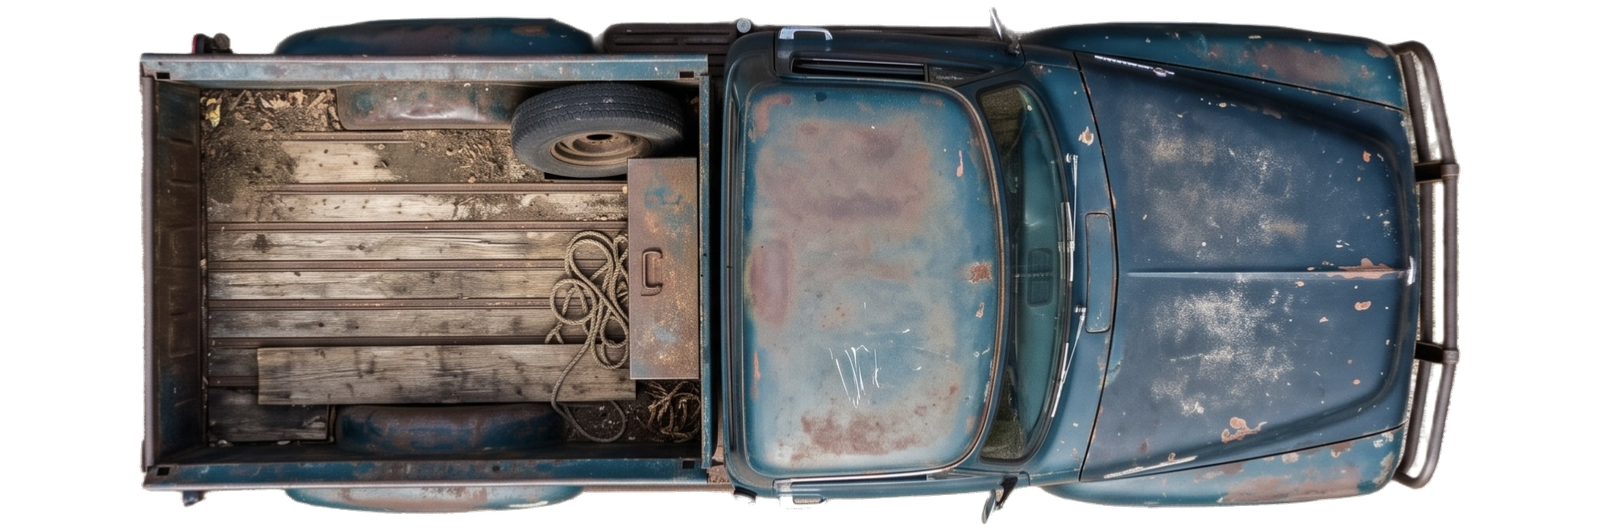
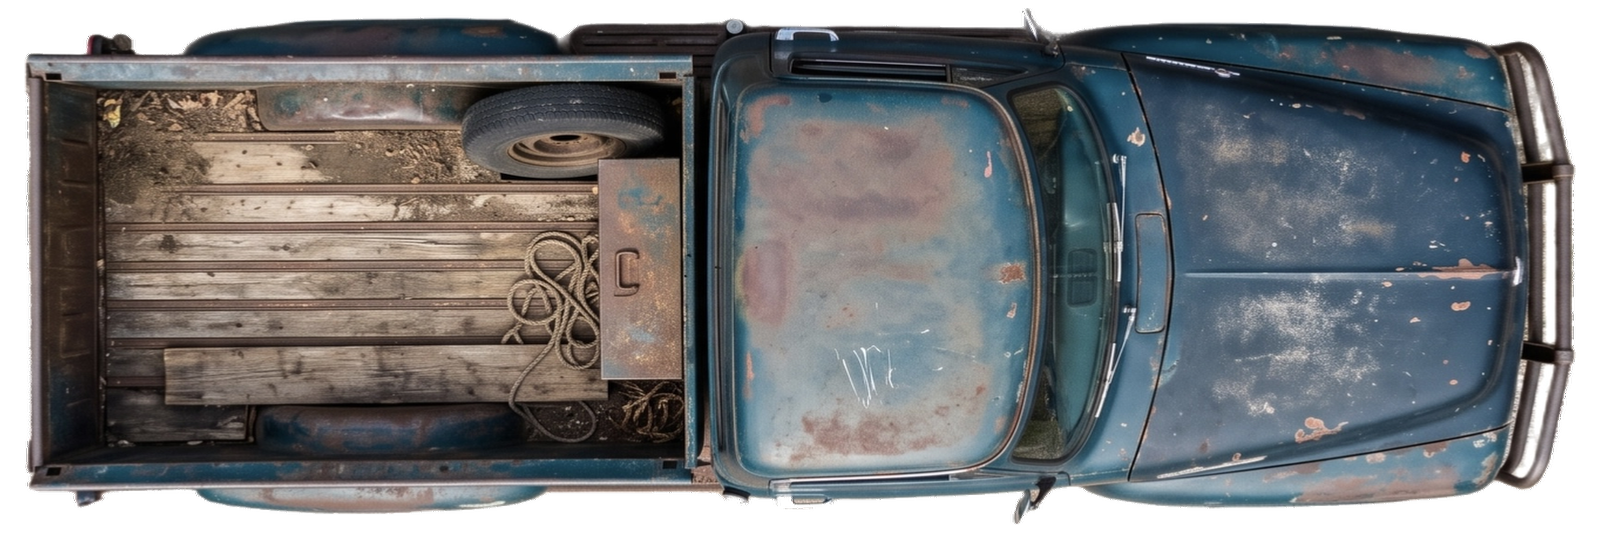
Fix colour repeats within a level; stretch the 3 new truck photos to fill their cell
Colour collisions (root cause): the traffic photo picker walked SEDAN_PHOTOS/
TRUCK_PHOTOS in a fixed cyclic order, offset per level by a seed — that only
rotates a SHARED order, so it can't stop two same-coloured entries landing in
one level's window once that level needs more traffic than the gap between
them. Campaign levels go up to 14 concurrent sedans and 6 concurrent trucks
(measured across all 200 levels, not the ~4-8 assumed by the previous fix),
which is well past what any fixed rotation can guarantee against a 5-6-member
colour group in a 40-entry array — the "level 1 shows two reds, two whites,
two yellows" bug was mathematically inevitable, not a spacing mistake.

Replaced the mechanism: every SEDAN_PHOTOS/TRUCK_PHOTOS entry now carries a
`color` bucket tag (measured from the art — base hue plus any distinguishing
stripe/livery, so a plain white hatchback and a green-striped white 911 get
different tags). bucketSequence() in js/art.js visits every colour bucket
ONCE, in a seed-shuffled order, before repeating any bucket — round-robin
across colours instead of across raw array slots. With 36 sedan buckets and
8 truck buckets, both above the measured per-level maximums, every level's
picks come from round 0 only, so no level can show the same colour twice.
Different seeds shuffle both the bucket visit order and which member of each
bucket comes first, so distinct levels don't all reach for the same "first"
[…]

diff --git a/js/art.js b/js/art.js
@@ -51,14 +51,15 @@ const CLASSIC_CAR_IMG = 'assets/cars/classic.png';
    was shifting each photo's own baked taillight red along with the body
    paint, which read as a lighting bug (green/purple taillights) rather than
    "recolored car". Real photos any time they exist beats simulating them. */
-/* ORDER MATTERS for colour variety, not just membership: a level's sedans
-   are consecutive entries starting at a seeded offset (see levelPhotoSeed
-   in js/game.js), so the cars that appear TOGETHER on one board are always
-   a contiguous window of this array. Entries are therefore arranged so that
-   any two cars of the same colour family sit ≥8 apart (circularly) — with
-   ~4-8 sedans per level, no board shows the same colour twice. Measured
-   from the art (dominant paint hue), not from the names. If you add a car,
-   place it away from its colour-mates rather than appending blindly.
+/* Every entry carries a `color` bucket tag (measured from the art: base
+   paint hue plus any distinguishing stripe/livery, not just the name) —
+   this is what actually prevents two same-looking cars sharing a level, via
+   bucketSequence()'s seeded round-robin below. A level's traffic no longer
+   walks this array's raw order at all: array order here is just for human
+   readability (roughly grouped by family). Only merge two cars into the
+   same bucket when they'd genuinely read as "the same car" at a glance
+   (e.g. the two plain red exotics); a stripe, livery, or shape that changes
+   the read gets its own bucket even at the same base hue.
 
    NOTE: sedan-6's cutout shipped mirrored (front at the LEFT — the only
    one violating the normalization described above) and was flipped in
@@ -77,65 +78,65 @@ const CLASSIC_CAR_IMG = 'assets/cars/classic.png';
    The olive G-wagon (sedan-9) stays dropped: too stubby (~1.7:1) for the
    shared 97%-of-length norm. Same call as the shadowed Countach cutout. */
 const SEDAN_PHOTOS = [
-  { img: 'assets/cars/traffic-sedan-6.png', hue: 29 },                 // recolors · skin body
-  { img: 'assets/cars/traffic-sedan-13.png', fixed: true },            // white hatchback
-  { img: 'assets/cars/traffic-sedan-5.png', fixed: true },             // yellow Ferrari, tricolor stripe
-  { img: 'assets/cars/hero-mclaren-nobadge.png', fixed: true },        // amber-orange F1
-  { img: 'assets/cars/hero-sports-cyan.png', fixed: true },            // cyan track 911
-  { img: 'assets/cars/traffic-sedan-new-lightblue.png', fixed: true }, // light-blue racer
-  { img: 'assets/cars/traffic-sedan-4.png', fixed: true },             // silver + yellow stripe GT
-  { img: 'assets/cars/hero-ferrari-nobadge.png', fixed: true },        // red prancing exotic
-  { img: 'assets/cars/traffic-sedan-25.png', fixed: true },            // police K-9 unit
-  { img: 'assets/cars/hero-classic-white-green.png', fixed: true },    // white 911, green stripe
-  { img: 'assets/cars/hero-sedan-green.png', fixed: true },            // dark green sedan
-  { img: 'assets/cars/hero-convertible-brown.png', fixed: true },      // brown grand tourer
-  { img: 'assets/cars/traffic-sedan-24.png', fixed: true },            // yellow taxi
-  { img: 'assets/cars/traffic-sedan-11.png', fixed: true },            // Gulf-blue GT40 (numbered race car)
-  { img: 'assets/cars/hero-ferrari-red-stripe.png', fixed: true },     // carbon/silver, red stripe
-  { img: 'assets/cars/hero-fluro-cyan.png', fixed: true },             // fluro cyan muscle
-  { img: 'assets/cars/hero-jeep-rubicon-nobadge.png', fixed: true },   // orange 4x4
-  { img: 'assets/cars/hero-vintage-white.png', fixed: true },          // white vintage bug
-  { img: 'assets/cars/traffic-sedan-3.png', hue: 212 },                // recolors · navy classic GT
-  { img: 'assets/cars/traffic-sedan-12.png', fixed: true },            // silver 300SL
-  { img: 'assets/cars/hero-fluro-green.png', fixed: true },            // fluro green muscle
-  { img: 'assets/cars/hero-cobra-nobadge.png', fixed: true },          // blue roadster
-  { img: 'assets/cars/hero-porsche-nobadge.png', fixed: true },        // pale-yellow 911
-  { img: 'assets/cars/hero-red-exotic.png', fixed: true },             // red exotic
-  { img: 'assets/cars/hero-fluro-pink.png', fixed: true },             // fluro pink muscle
-  { img: 'assets/cars/hero-classic-cream.png', fixed: true },          // cream coupe
-  { img: 'assets/cars/hero-muscle.png', fixed: true },                 // grey muscle
-  { img: 'assets/cars/traffic-sedan-28.png', fixed: true },            // rusted/weathered hatchback
-  { img: 'assets/cars/hero-pagani-nobadge.png', fixed: true },         // teal hypercar
-  { img: 'assets/cars/hero-miura-nobadge.png', fixed: true },          // blue classic exotic
-  { img: 'assets/cars/hero-muscle-sage.png', fixed: true },            // sage muscle
-  { img: 'assets/cars/hero-fluro-orange.png', fixed: true },           // fluro orange muscle
-  { img: 'assets/cars/hero-fluro-yellow.png', fixed: true },           // fluro yellow muscle
-  { img: 'assets/cars/traffic-sedan-7.png', fixed: true },             // white classic 911, black stripe
-  { img: 'assets/cars/hero-porsche-911-silver.png', fixed: true },     // silver longtail
-  { img: 'assets/cars/hero-sedan-bronze.png', fixed: true },           // bronze sedan
-  { img: 'assets/cars/traffic-sedan-8.png', hue: 90 },                 // recolors · lime GT3 RS
-  { img: 'assets/cars/hero-classic-blue-stripe.png', fixed: true },    // steel-blue coupe, white stripe
-  { img: 'assets/cars/hero-muscle-grey-stripe.png', fixed: true },     // grey-stripe muscle
-  { img: 'assets/cars/hero-countach-nobadge.png', fixed: true },       // green wedge
+  { img: 'assets/cars/traffic-sedan-6.png', hue: 29, color: 'recolor' },              // skin body, recolors
+  { img: 'assets/cars/traffic-sedan-13.png', fixed: true, color: 'white-plain' },
+  { img: 'assets/cars/traffic-sedan-5.png', fixed: true, color: 'yellow-tricolor' },  // Ferrari, tricolor stripe
+  { img: 'assets/cars/hero-mclaren-nobadge.png', fixed: true, color: 'orange-f1' },
+  { img: 'assets/cars/hero-sports-cyan.png', fixed: true, color: 'cyan-track' },
+  { img: 'assets/cars/traffic-sedan-new-lightblue.png', fixed: true, color: 'blue-plain' },
+  { img: 'assets/cars/traffic-sedan-4.png', fixed: true, color: 'silver-yellow-stripe' },
+  { img: 'assets/cars/hero-ferrari-nobadge.png', fixed: true, color: 'red' },
+  { img: 'assets/cars/traffic-sedan-25.png', fixed: true, color: 'police' },          // K-9 unit
+  { img: 'assets/cars/hero-classic-white-green.png', fixed: true, color: 'white-green-stripe' },
+  { img: 'assets/cars/hero-sedan-green.png', fixed: true, color: 'green-sedan' },
+  { img: 'assets/cars/hero-convertible-brown.png', fixed: true, color: 'brown' },
+  { img: 'assets/cars/traffic-sedan-24.png', fixed: true, color: 'yellow-taxi' },
+  { img: 'assets/cars/traffic-sedan-11.png', fixed: true, color: 'blue-gulf-race' },  // numbered Gulf GT40
+  { img: 'assets/cars/hero-ferrari-red-stripe.png', fixed: true, color: 'carbon-red-stripe' },
+  { img: 'assets/cars/hero-fluro-cyan.png', fixed: true, color: 'cyan-fluro' },
+  { img: 'assets/cars/hero-jeep-rubicon-nobadge.png', fixed: true, color: 'orange-suv' },
+  { img: 'assets/cars/hero-vintage-white.png', fixed: true, color: 'ivory-bug' },
+  { img: 'assets/cars/traffic-sedan-3.png', hue: 212, color: 'recolor' },             // navy classic GT
+  { img: 'assets/cars/traffic-sedan-12.png', fixed: true, color: 'silver-plain' },    // 300SL
+  { img: 'assets/cars/hero-fluro-green.png', fixed: true, color: 'green-fluro' },
+  { img: 'assets/cars/hero-cobra-nobadge.png', fixed: true, color: 'blue-white-stripe' },
+  { img: 'assets/cars/hero-porsche-nobadge.png', fixed: true, color: 'yellow-911-pale' },
+  { img: 'assets/cars/hero-red-exotic.png', fixed: true, color: 'red' },
+  { img: 'assets/cars/hero-fluro-pink.png', fixed: true, color: 'pink-fluro' },
+  { img: 'assets/cars/hero-classic-cream.png', fixed: true, color: 'cream-coupe' },
+  { img: 'assets/cars/hero-muscle.png', fixed: true, color: 'grey-muscle' },
+  { img: 'assets/cars/traffic-sedan-28.png', fixed: true, color: 'rust-weathered' },
+  { img: 'assets/cars/hero-pagani-nobadge.png', fixed: true, color: 'teal' },
+  { img: 'assets/cars/hero-miura-nobadge.png', fixed: true, color: 'blue-classic' },
+  { img: 'assets/cars/hero-muscle-sage.png', fixed: true, color: 'green-sage' },
+  { img: 'assets/cars/hero-fluro-orange.png', fixed: true, color: 'orange-fluro' },
+  { img: 'assets/cars/hero-fluro-yellow.png', fixed: true, color: 'yellow-fluro' },
+  { img: 'assets/cars/traffic-sedan-7.png', fixed: true, color: 'white-black-stripe' }, // 911
+  { img: 'assets/cars/hero-porsche-911-silver.png', fixed: true, color: 'silver-track' }, // longtail
+  { img: 'assets/cars/hero-sedan-bronze.png', fixed: true, color: 'bronze' },
+  { img: 'assets/cars/traffic-sedan-8.png', hue: 90, color: 'recolor' },              // lime GT3 RS
+  { img: 'assets/cars/hero-classic-blue-stripe.png', fixed: true, color: 'blue-white-stripe' },
+  { img: 'assets/cars/hero-muscle-grey-stripe.png', fixed: true, color: 'grey-stripe-muscle' },
+  { img: 'assets/cars/hero-countach-nobadge.png', fixed: true, color: 'green-wedge' },
 ];
 
 /* Self-propelled len-3 vehicles only — trailers live in TRAILER_PHOTOS and
    are chosen by gameplay role (hitch trailer), never by index accident.
-   Same colour-spacing rule as SEDAN_PHOTOS (levels take a consecutive
-   window): the two silver tankers sit 4 apart, as do the two blue-cab
-   trucks — with ~1-3 trucks per level no board doubles a colour.
-   School bus stays fixed: hue-rotating its big unshaded roof panel turns
-   it into a flat featureless block, and a non-yellow school bus reads
-   wrong anyway. */
+   Same per-entry `color` tagging as SEDAN_PHOTOS, feeding the same
+   bucketSequence() round-robin — 8 distinct colours here comfortably
+   covers the largest level (6 concurrent trucks measured across all 200
+   campaign levels). School bus stays fixed: hue-rotating its big unshaded
+   roof panel turns it into a flat featureless block, and a non-yellow
+   school bus reads wrong anyway. */
 const TRUCK_PHOTOS = [
-  { img: 'assets/cars/traffic-truck-3.png', fixed: true },          // silver tanker
-  { img: 'assets/cars/traffic-truck-new.png', fixed: true },        // blue pickup
-  { img: 'assets/cars/traffic-truck-2.png', fixed: true },          // yellow school bus
-  { img: 'assets/cars/traffic-truck-1.png', fixed: true },          // green garbage truck
-  { img: 'assets/cars/traffic-truck-5.png', fixed: true },          // chrome tanker
-  { img: 'assets/cars/traffic-truck-new-rusty.png', fixed: true },  // rusty flatbed
-  { img: 'assets/cars/traffic-truck-new-white.png', fixed: true },  // white box truck
-  { img: 'assets/cars/traffic-truck-4.png', hue: 358 },             // tow truck (recolors)
+  { img: 'assets/cars/traffic-truck-3.png', fixed: true, color: 'silver-tanker' },
+  { img: 'assets/cars/traffic-truck-new.png', fixed: true, color: 'blue-pickup' },
+  { img: 'assets/cars/traffic-truck-2.png', fixed: true, color: 'yellow-bus' },
+  { img: 'assets/cars/traffic-truck-1.png', fixed: true, color: 'green-garbage' },
+  { img: 'assets/cars/traffic-truck-5.png', fixed: true, color: 'chrome-tanker' },
+  { img: 'assets/cars/traffic-truck-new-rusty.png', fixed: true, color: 'rust-flatbed' },
+  { img: 'assets/cars/traffic-truck-new-white.png', fixed: true, color: 'white-box' },
+  { img: 'assets/cars/traffic-truck-4.png', hue: 358, color: 'recolor' },   // tow truck
 ];
 
 /* Vehicles that cannot move by themselves: only pieces a level marks as a
@@ -146,6 +147,69 @@ const TRAILER_PHOTOS = [
   { img: 'assets/cars/traffic-truck-7.png', fixed: true },
   { img: 'assets/cars/traffic-truck-8.png', fixed: true },
 ];
+
+/* Colour-safe traffic photo picker (fixes: two same-coloured cars landing
+   on one board — see the July '26 bug report). The old scheme walked
+   SEDAN_PHOTOS in a fixed cyclic order, offset per level by a seed; that
+   only rotates a SHARED order, so it can't stop two same-coloured entries
+   ~8 apart from both landing in one level's window once that level needs
+   more than ~8 cars. Campaign levels go up to 14 concurrent sedans and 6
+   concurrent trucks (measured across all 200 levels), which is well past
+   what any fixed rotation can guarantee.
+
+   bucketSequence() instead groups entries by their `color` tag and, for a
+   given level seed, visits every bucket ONCE in a seed-shuffled order
+   before repeating any bucket — i.e. round-robin across colours, not
+   across raw array slots. With 36 sedan buckets and 8 truck buckets, both
+   comfortably above the measured per-level maximums, every level's first
+   pass through this sequence draws each car from a DIFFERENT colour bucket,
+   so no level can show the same colour twice. (Only if a level ever needed
+   more traffic pieces than there are buckets would a colour repeat — and
+   even then it'd be the least-recently-used colour, maximally spread out.)
+   Different seeds shuffle both the bucket visiting order and which member
+   of each bucket comes first, so distinct levels don't all reach for the
+   same "first" car — while the same level keeps the same seed and so looks
+   identical across replays/undos, matching the surrounding design intent. */
+function seedHash(seed, salt){
+  let h = (Math.imul(seed | 0, 2654435761) ^ 0) >>> 0;
+  for(let i = 0; i < salt.length; i++) h = Math.imul(h ^ salt.charCodeAt(i), 16777619) >>> 0;
+  return h;
+}
+
+function bucketize(pool){
+  const buckets = {};
+  pool.forEach(entry => (buckets[entry.color] ??= []).push(entry));
+  return buckets;
+}
+
+const SEDAN_BUCKETS = bucketize(SEDAN_PHOTOS);
+const TRUCK_BUCKETS = bucketize(TRUCK_PHOTOS);
+const sequenceCache = new Map(); // "poolName:seed" -> resolved pick order
+
+function bucketSequence(poolName, buckets, seed){
+  const key = poolName + ':' + seed;
+  const cached = sequenceCache.get(key);
+  if(cached) return cached;
+
+  const names = Object.keys(buckets);
+  const start = seedHash(seed, poolName) % names.length;
+  const order = names.slice(start).concat(names.slice(0, start));
+
+  const seq = [];
+  for(let round = 0; ; round++){
+    let addedAny = false;
+    for(const name of order){
+      const bucket = buckets[name];
+      if(round >= bucket.length) continue;
+      const rot = seedHash(seed, name) % bucket.length;
+      seq.push(bucket[(rot + round) % bucket.length]);
+      addedAny = true;
+    }
+    if(!addedAny) break;
+  }
+  sequenceCache.set(key, seq);
+  return seq;
+}
 
 function hexHue(hex){
   const n = parseInt(hex.slice(1), 16);
@@ -214,25 +278,33 @@ function decal(idx, cx, cy){
   }
 }
 
-/* opts.photoIdx — this piece's ordinal among pieces of the same class
-   (sedan / truck / trailer) in the level, so every piece in one level gets
-   a different photo. Falls back to the global piece index for callers that
-   don't pass it. opts.trailer — this piece is a hitch trailer: len-3 draws
-   from TRAILER_PHOTOS (caravan / utility trailer / boat); a len-2 trailer
-   is a broken-down car and renders desaturated + dimmed so "needs a tow"
-   reads at a glance. */
+/* opts.photoOrd — this piece's 0-based ordinal among pieces of the same
+   class (sedan / truck / trailer) in the level; opts.seed — the level's
+   photo seed (see levelPhotoSeed in js/game.js). Together they index into
+   this seed's colour-safe bucketSequence() (see above) rather than a raw
+   array slot, so every piece in one level gets a different photo AND a
+   different colour. Both default to 0 for callers that don't pass them.
+   opts.trailer — this piece is a hitch trailer: len-3 draws from
+   TRAILER_PHOTOS (caravan / utility trailer / boat); a len-2 trailer is a
+   broken-down car and renders desaturated + dimmed so "needs a tow" reads
+   at a glance. */
 export function vehicleSVG(idx, len, dir, isHero, opts = {}){
   const skin = isHero ? opts.skin : null;
   const base = skin ? skin.base : (isHero ? PALETTE[0][0] : PALETTE[1 + (idx - 1) % (PALETTE.length - 1)][0]);
   const L = len * H;
   const gid = 'v' + idx + '-' + Math.random().toString(36).slice(2, 7);
   const soft = gid + 's';
-  const photoIdx = opts.photoIdx ?? idx;
+  const seed = opts.seed ?? 0;
+  const photoOrd = opts.photoOrd ?? 0;
   const isTrailer = !!opts.trailer && !isHero;
-  const sedanPhoto = isHero ? SEDAN_PHOTOS[0] : SEDAN_PHOTOS[photoIdx % SEDAN_PHOTOS.length];
+  // Computed unconditionally (cheap — memoized per seed) even though heroes
+  // don't use them, so the unused branch below never indexes into null.
+  const sedanSeq = bucketSequence('sedan', SEDAN_BUCKETS, seed);
+  const truckSeq = bucketSequence('truck', TRUCK_BUCKETS, seed);
+  const sedanPhoto = isHero ? SEDAN_PHOTOS[0] : sedanSeq[photoOrd % sedanSeq.length];
   const truckPhoto = isTrailer
-    ? TRAILER_PHOTOS[photoIdx % TRAILER_PHOTOS.length]
-    : TRUCK_PHOTOS[photoIdx % TRUCK_PHOTOS.length];
+    ? TRAILER_PHOTOS[photoOrd % TRAILER_PHOTOS.length]
+    : truckSeq[photoOrd % truckSeq.length];
   const brokenDown = isTrailer && len < 3;
   const hueAttr = brokenDown ? ` filter="url(#${gid}broke)"` : (sedanPhoto.fixed ? '' : ` filter="url(#${gid}hue)"`);
   const hueAttr2 = truckPhoto.fixed ? '' : ` filter="url(#${gid}hue2)"`;

diff --git a/js/game.js b/js/game.js
@@ -223,22 +223,16 @@ function buildPieces(){
     board.appendChild(el);
   });
   /* Per-class photo ordinals: pieces of the same class (sedan / truck /
-     hitch trailer) count up separately, so no two pieces in one level share
-     a photo — the global piece index would collide once it wraps a photo
-     array (e.g. trucks at idx 3 and 11 both landing on photo 3). Sedans
-     start at 1: photo 0 is the Garage-skin body.
-
-     Each counter is also offset by a per-level seed (see levelPhotoSeed)
-     before it starts counting. Without this every level's sedans walked
-     the SEDAN_PHOTOS array from the same starting point (1, 2, 3…), so with
-     ~4-8 sedans per level and 22 photos in the array, indices past ~8 were
-     essentially never reached — the back two-thirds of the library (all
-     the newer real-photo colors) never showed up in normal play even
-     though they were correctly in rotation code-wise. The seed makes
-     different levels start at different offsets while still walking
-     sequentially, so "no duplicate within a level" still holds. */
+     hitch trailer) count up separately from 0, so no two pieces in one
+     level share a photo — the global piece index would collide once it
+     wraps a photo array (e.g. trucks at idx 3 and 11 both landing on
+     photo 3). Colour variety (no two same-coloured cars in one level) is
+     handled inside vehicleSVG's bucketSequence(), keyed off the level's
+     own seed (see levelPhotoSeed) — passed straight through here so the
+     ordinal only needs to track "which one of this level's sedans/trucks/
+     trailers is this", not fold the seed into itself. */
   const seed = levelPhotoSeed();
-  let sedanOrd = 1 + seed, truckOrd = seed * 3, trailerOrd = seed * 5;
+  let sedanOrd = 0, truckOrd = 0, trailerOrd = 0;
   pieces.forEach((p, i) => {
     const el = document.createElement('div');
     const isTow = hitches.some(h => h.tow === i);
@@ -249,11 +243,12 @@ function buildPieces(){
     el.setAttribute('role', 'button');
     el.style.width = (p.dir === 'h' ? p.len : 1) * CELL + 'px';
     el.style.height = (p.dir === 'v' ? p.len : 1) * CELL + 'px';
-    const photoIdx = i === 0 ? 0 : (isTrailer ? trailerOrd++ : (p.len >= 3 ? truckOrd++ : sedanOrd++));
+    const photoOrd = i === 0 ? 0 : (isTrailer ? trailerOrd++ : (p.len >= 3 ? truckOrd++ : sedanOrd++));
     el.innerHTML = vehicleSVG(i, p.len, p.dir, i === 0, {
       colorblind: save.settings.colorblind,
       skin: i === 0 ? skinFor(heroCarIdForAttempt()) : null,
-      photoIdx,
+      seed,
+      photoOrd,
       trailer: isTrailer,
     });
     el.classList.add('enter');
@@ -2192,7 +2187,8 @@ function sbRender(){
     el.innerHTML = wallSVG('sb' + wi);
     b.appendChild(el);
   });
-  let sedanOrd = 1, truckOrd = 0;
+  const seed = hashStr(JSON.stringify(sbState.pieces));
+  let sedanOrd = 0, truckOrd = 0;
   sbState.pieces.forEach((p, i) => {
     const el = document.createElement('div');
     el.className = 'sb-piece' + (p.hero ? ' hero' : '');
@@ -2200,8 +2196,8 @@ function sbRender(){
     el.style.width = (p.dir === 'h' ? p.len : 1) * SB_CELL + 'px';
     el.style.height = (p.dir === 'v' ? p.len : 1) * SB_CELL + 'px';
     el.style.transform = `translate(${p.c * SB_CELL}px, ${p.r * SB_CELL}px)`;
-    const photoIdx = p.hero ? 0 : (p.len >= 3 ? truckOrd++ : sedanOrd++);
-    el.innerHTML = vehicleSVG(i, p.len, p.dir, !!p.hero, { photoIdx });
+    const photoOrd = p.hero ? 0 : (p.len >= 3 ? truckOrd++ : sedanOrd++);
+    el.innerHTML = vehicleSVG(i, p.len, p.dir, !!p.hero, { seed, photoOrd });
     b.appendChild(el);
   });
   sbStatus();